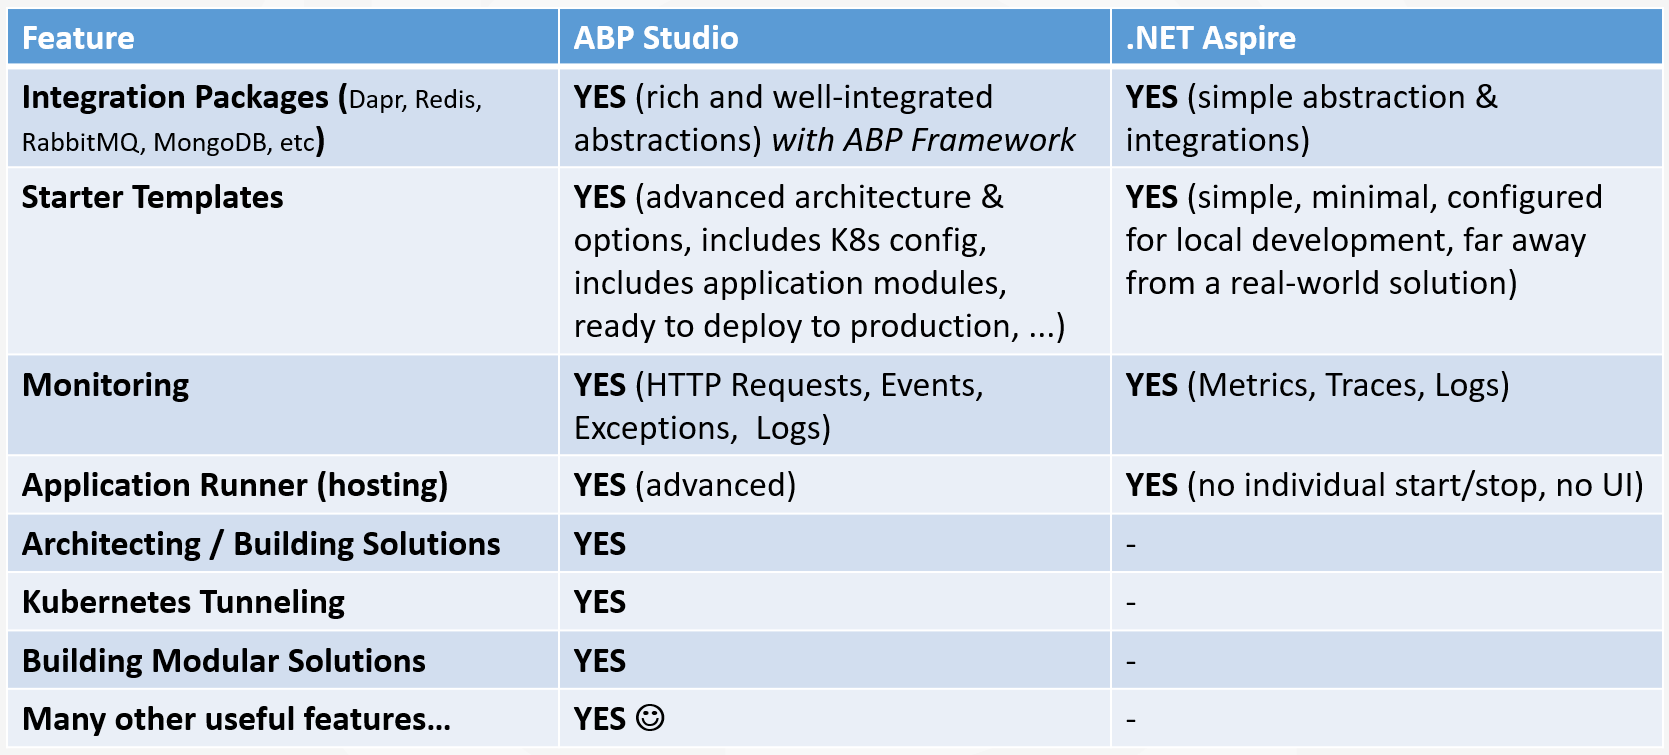
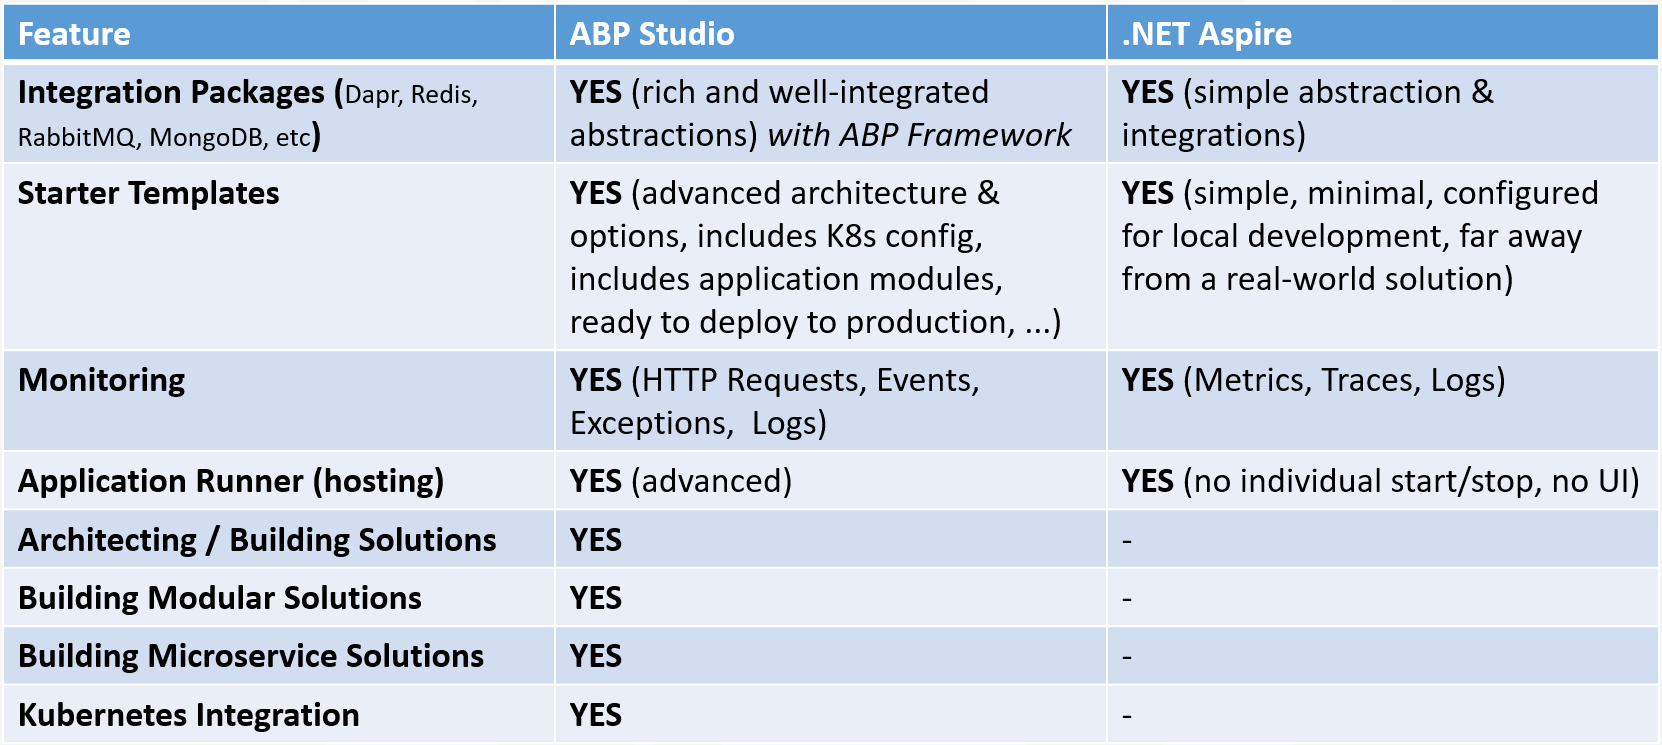
Added sections to the article

diff --git a/docs/en/Community-Articles/2024-10-11-NET-Aspire-vs-ABP-Studio/POST.md b/docs/en/Community-Articles/2024-10-11-NET-Aspire-vs-ABP-Studio/POST.md
@@ -54,6 +54,47 @@ Both of ABP Studio and .NET Aspire provide startup solution templates for new ap
 
 So, when you start with .NET Aspire project template, you will need to deal with a lot of work to make your solution production and enterprise ready. On the other hand, ABP Studio's solution templates are ready to lunch your system from the first day and they provide you a perfect starting point for your new business idea.
 
-### Monitoring
+### Monitoring & Application Running
 
 Monitoring applications and services is an important requirement for building complex distributed systems. Both of ABP Studio and .NET Aspire provide excellent tools for that purpose.
+
+* ABP Studio's [Solution Runner panel](https://abp.io/docs/latest/studio/running-applications) provides a powerful UI to run and monitor application and services. You can see all HTTP requests, distributed events, exceptions and detailed application logs, trace and find problems in your system. You can use its fully functional built-in browser to navigate application UIs easily. You can also create multiple profiles to group and configure the applications for different teams.
+* .NET Aspire's [dashboard](https://learn.microsoft.com/en-us/dotnet/aspire/fundamentals/dashboard/overview) can be used to see the states of the running applications and containers, explore their console output, logs, traces and metrics to understand what is happing in your distributed system.
+
+Both tools are pretty useful for monitoring. In addition to monitoring, ABP Studio offers an advanced UI to control the running applications, build, start and stop individually or by a group of applications.
+
+### Architecting / Building Solutions
+
+One of the unique features of ABP Studio is that it is an architectural tool that helps you create the structure and architecture of your solution. You can create any kind of application, from single-layer simple web applications to layered multi-application solutions, from monolith modular to microservice systems. In the next section, I will briefly explains these architectural features.
+
+#### Building Modular Monolith Solutions
+
+With ABP Studio, you can create a new solution, create modules and establish relations (dependencies) between modules to architect your overall modular monolith system easily.
+
+Here, a screenshot where we are adding an existing package reference to the Products module of a modular CRM solution:
+
+![abp-studio-add-existing-package](abp-studio-add-existing-package.png)
+
+You can see the [Modular Application Development tutorial](https://abp.io/docs/latest/tutorials/modular-crm) to learn how to build such an application step by step.
+
+#### Building Microservice Solutions
+
+ABP Studio provides a full featured [microservice startup solution template](https://abp.io/docs/latest/solution-templates/microservice) and the fundamental tooling to build large-scale microservice systems.
+
+Here a screenshot that shows how to add new microservices, API gateways or web applications to a microservice solution:
+
+![abp-studio-add-new-microservice](abp-studio-add-new-microservice.png)
+
+### Kubernetes Integration
+
+Another great ABP Studio feature is [Kubernetes Integration](https://abp.io/docs/latest/studio/kubernetes).
+
+TODO: ...
+
+## The ABP Framework
+
+TODO: ...
+
+## Conclusion
+
+TODO: ...
